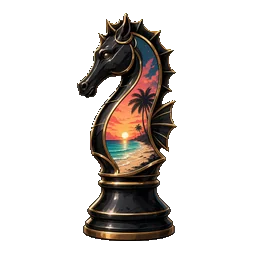
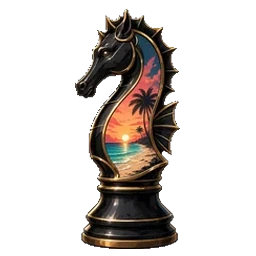
Chess: pieces fill their squares (art trimmed, Classic + Beach); bigger board on desktop
Claude-Session: https://claude.ai/code/session_01FRLtxfJkzgmHNiVDfJC7kh

Changed region(s): [[0.2812, 0.0312, 0.7188, 1.0], [0.4062, 0.25, 0.5, 0.3125]]

diff --git a/index.html b/index.html
@@ -440,7 +440,7 @@ var SUQ=(function(){
   var box=document.getElementById('frames'),frames={},heights={},active=null;
   var SRC={};
   /* games load on demand: each game's page is its own file next to the app (inline copies still work too) */
-  var GBASE=/*GBASE*/''/*GBASE*/,GVER=/*GVER*/'41feefb6b7'/*GVER*/,FA_V=/*FA*/null/*FA*/,LIVE_V=/*LIVE*/null/*LIVE*/,PEND={};
+  var GBASE=/*GBASE*/''/*GBASE*/,GVER=/*GVER*/'920556a766'/*GVER*/,FA_V=/*FA*/null/*FA*/,LIVE_V=/*LIVE*/null/*LIVE*/,PEND={};
   function prepSrc(t){t=t.replace(/<\\u002fscript/g,'<'+'/script');
     try{t=t.split('/*FA*/'+'null/*FA*/').join(JSON.stringify(FA_V).replace(/</g,'\\u003c'));}catch(e){}
     try{t=t.split('/*LIVE*/'+'null/*LIVE*/').join(LIVE_V&&LIVE_V.url?JSON.stringify(LIVE_V).replace(/</g,'\\u003c'):'null');}catch(e){}

diff --git a/sw.js b/sw.js
@@ -1,5 +1,5 @@
 /* Saddle Up Arcade: offline support. The page is network-first (fresh updates), art is cache-first. */
-var V='arcade-9d31c0150d',ART='arcade-art-v6';
+var V='arcade-9812e4e499',ART='arcade-art-v7';
 self.addEventListener('install',function(e){self.skipWaiting();e.waitUntil(caches.open(V).then(function(c){return c.addAll(['./','index.html','manifest.webmanifest','icons/icon-192.png','icons/icon-512.png']);}));});
 self.addEventListener('activate',function(e){e.waitUntil(caches.keys().then(function(ks){return Promise.all(ks.filter(function(k){return k!==V&&k!==ART;}).map(function(k){return caches.delete(k);}));}).then(function(){return self.clients.claim();}));});
 self.addEventListener('fetch',function(e){
